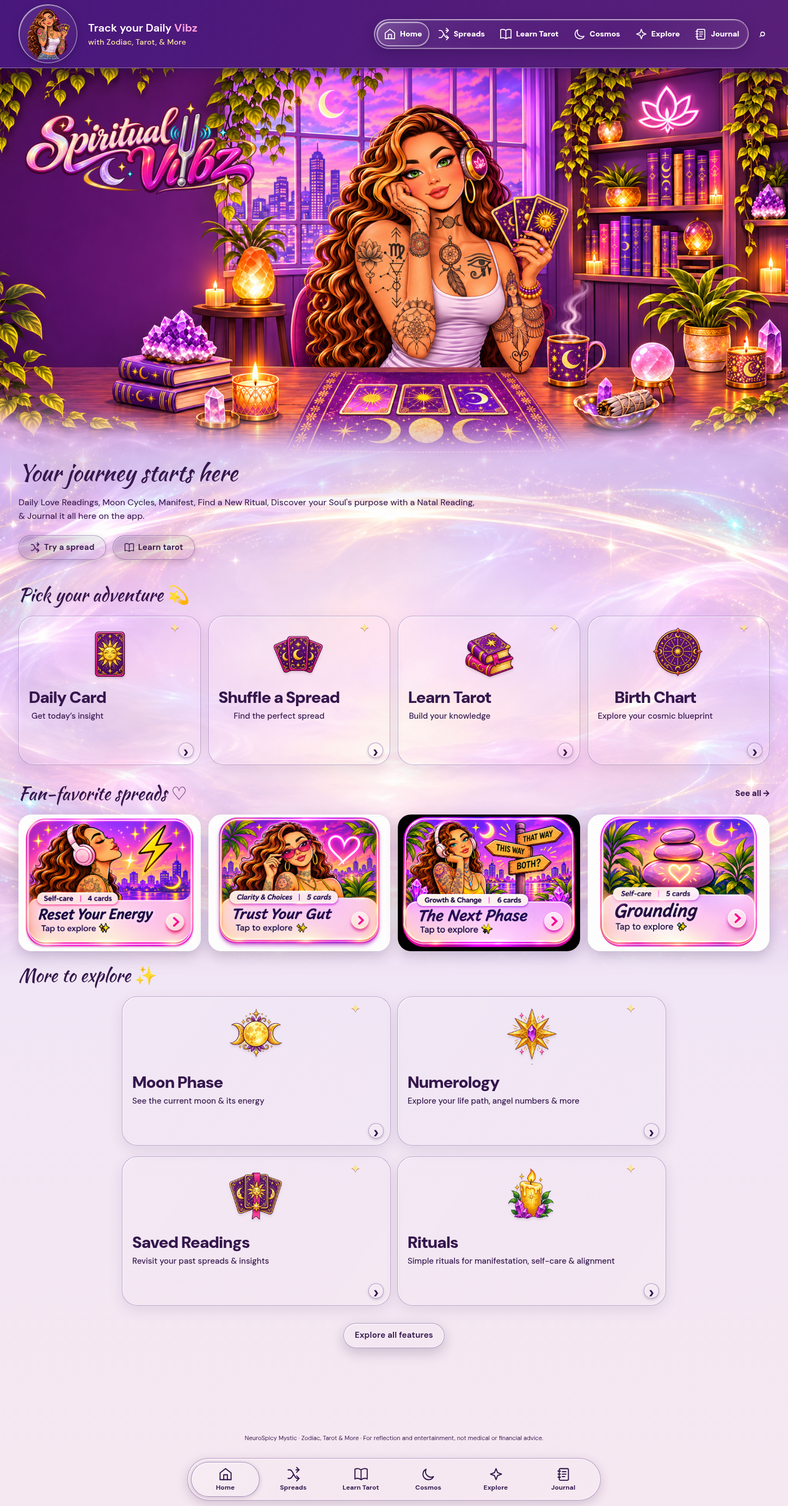
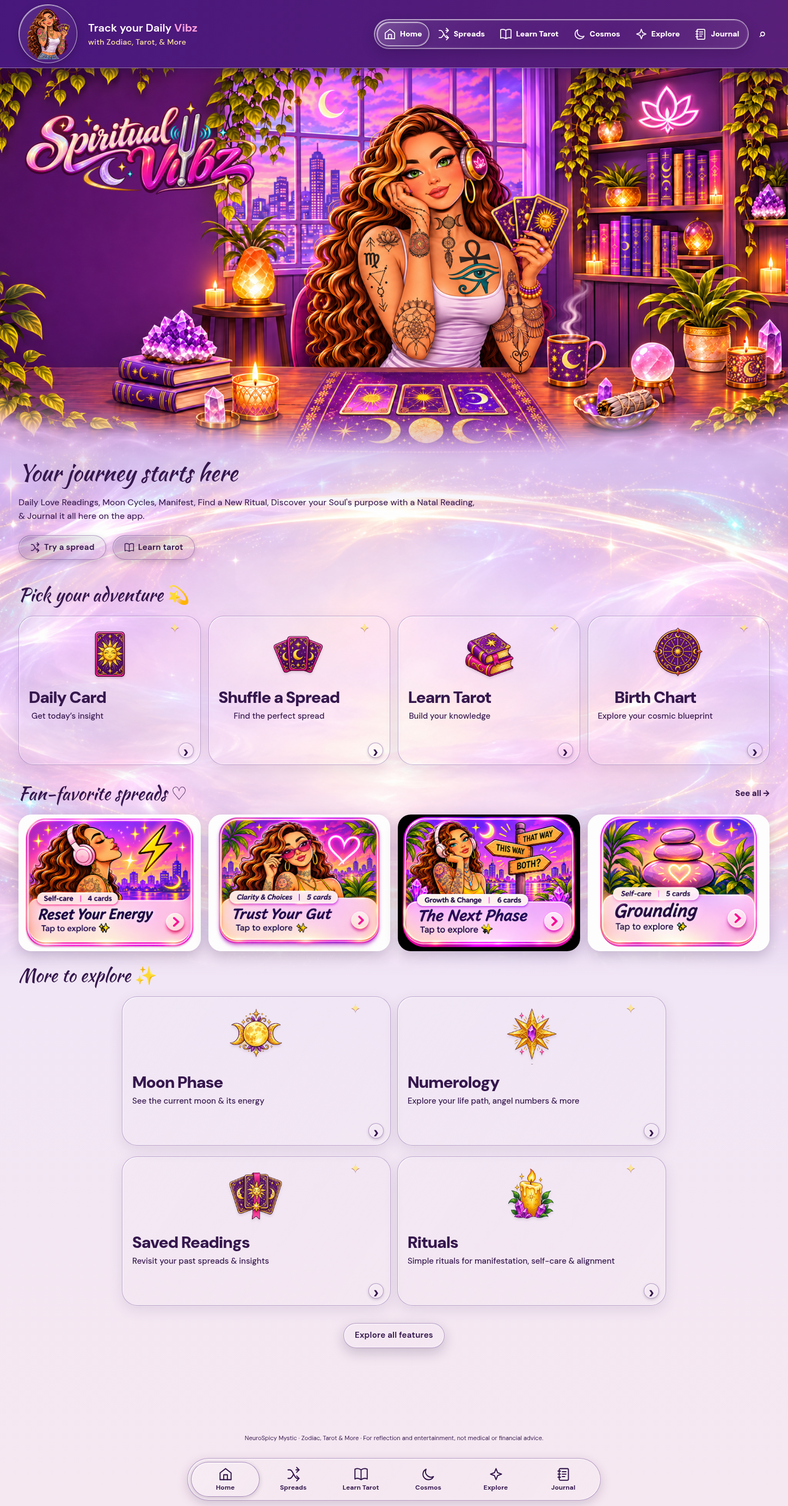
Correct shoulder proportions and complete the ankh-eye tattoo

diff --git a/frontend/liquid-glass.css b/frontend/liquid-glass.css
@@ -118,7 +118,7 @@ body[data-page="cosmos"] .moon-weekday,body[data-page="cosmos"] .moon-calendar h
 body[data-page="home"]{background:#28112f}
 body[data-page="home"]:before{background:radial-gradient(ellipse at 15% 20%,#70334d40,transparent 58%),linear-gradient(#28112f,#31162e 60%,#24112d)}
 .home-room-hero{position:relative;width:100vw;margin-left:calc(50% - 50vw);aspect-ratio:2/1;border:0;outline:0;box-shadow:none;background:transparent}
-.home-room-scene{position:absolute;inset:0;border:0;box-shadow:none;background:url('assets/home-mystic-room-personalized.png') center/cover no-repeat;mask-image:linear-gradient(#000 0 87%,transparent 100%);-webkit-mask-image:linear-gradient(#000 0 87%,transparent 100%)}
+.home-room-scene{position:absolute;inset:0;border:0;box-shadow:none;background:url('assets/home-mystic-room-final.png') center/cover no-repeat;mask-image:linear-gradient(#000 0 87%,transparent 100%);-webkit-mask-image:linear-gradient(#000 0 87%,transparent 100%)}
 .home-room-brand{position:absolute;z-index:1;top:clamp(26px,4vw,64px);left:max(24px,calc((100vw - 1380px)/2));width:clamp(280px,31vw,480px)}
 .home-room-brand .brand-wordmark{width:100%;margin:0}
 .room-welcome.hero-copy{width:100%;max-width:960px;padding:0 0 20px;margin:-8px 0 0;position:relative}

diff --git a/frontend/index.html b/frontend/index.html
@@ -6,7 +6,7 @@
  <title>Spiritual Vibz ✦ Zodiac, Tarot & More</title>
  <link rel="icon" type="image/png" href="assets/cartoon_me_transparent1.png">
  <link rel="stylesheet" href="styles.css?v=20261110-learning-birthplaces">
- <link rel="stylesheet" href="liquid-glass.css?v=20261111-tattoo-details">
+ <link rel="stylesheet" href="liquid-glass.css?v=20261111-shoulder-ankh">
 </head>
 <body>
  <div id="app"></div>

diff --git a/docs/verification/VIBZ_LEARNING_AND_ASTEROIDS.md b/docs/verification/VIBZ_LEARNING_AND_ASTEROIDS.md
@@ -126,3 +126,11 @@ and twelve responsive browser widths pass. The separate downloadable
 `frontend/assets/home-portrait-with-logo.png` contains only the top room artwork,
 guide, desk and approved logo, excluding navigation, feature cards and the lower
 portal section. It is exported from the rendered hero at 1824×912 pixels.
+
+Shoulder/ankh refinement uses `home-mystic-room-final.png`: the shoulder is
+reduced to natural proportions, Virgo moves to the outer upper arm and the
+small lotus moves inward/right. The larger turquoise Eye of Horus is joined
+with its black ankh as one chest design. A smaller, higher dreamcatcher/feather
+visually hangs beneath the neck moon. The top-only PNG retains the exact
+approved logo. Eleven Web checks and twelve browser widths pass; the existing
+portal and clear-glass surfaces remain intact.
